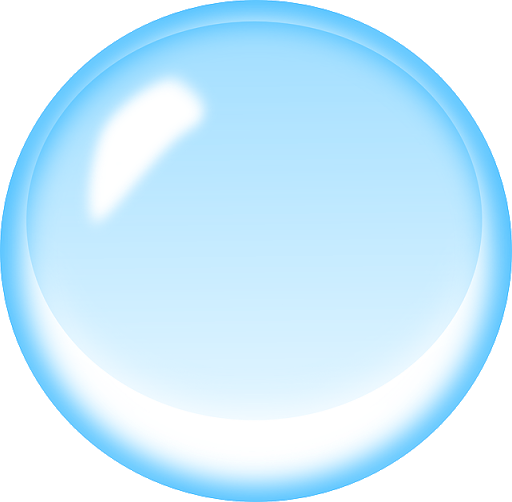
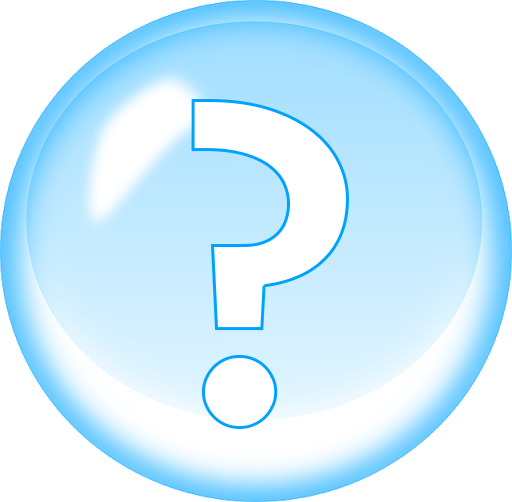
Feat: question make added to bubble

Changed region(s): [[0.375, 0.1793, 0.6875, 0.6574], [0.375, 0.6873, 0.5625, 0.8665]]

diff --git a/src/scenes/Mainscene.js b/src/scenes/Mainscene.js
@@ -172,11 +172,11 @@ export default class MainScene extends Phaser.Scene {
 				.image(734, 545, "instructions")
 				.setScale(0.15)
 				.setScrollFactor(0);
-			scene.instructionsText = scene.add.text(700, 570, "Instructions", {
-				fill: "#ffffff",
-				fontSize: "10px",
-				fontStyle: "bold",
-			}).setScrollFactor(0);
+			// scene.instructionsText = scene.add.text(700, 570, "Instructions", {
+			// 	fill: "#ffffff",
+			// 	fontSize: "10px",
+			// 	fontStyle: "bold",
+			// }).setScrollFactor(0);
 
 			scene.instructionsBubble.setInteractive();
 
